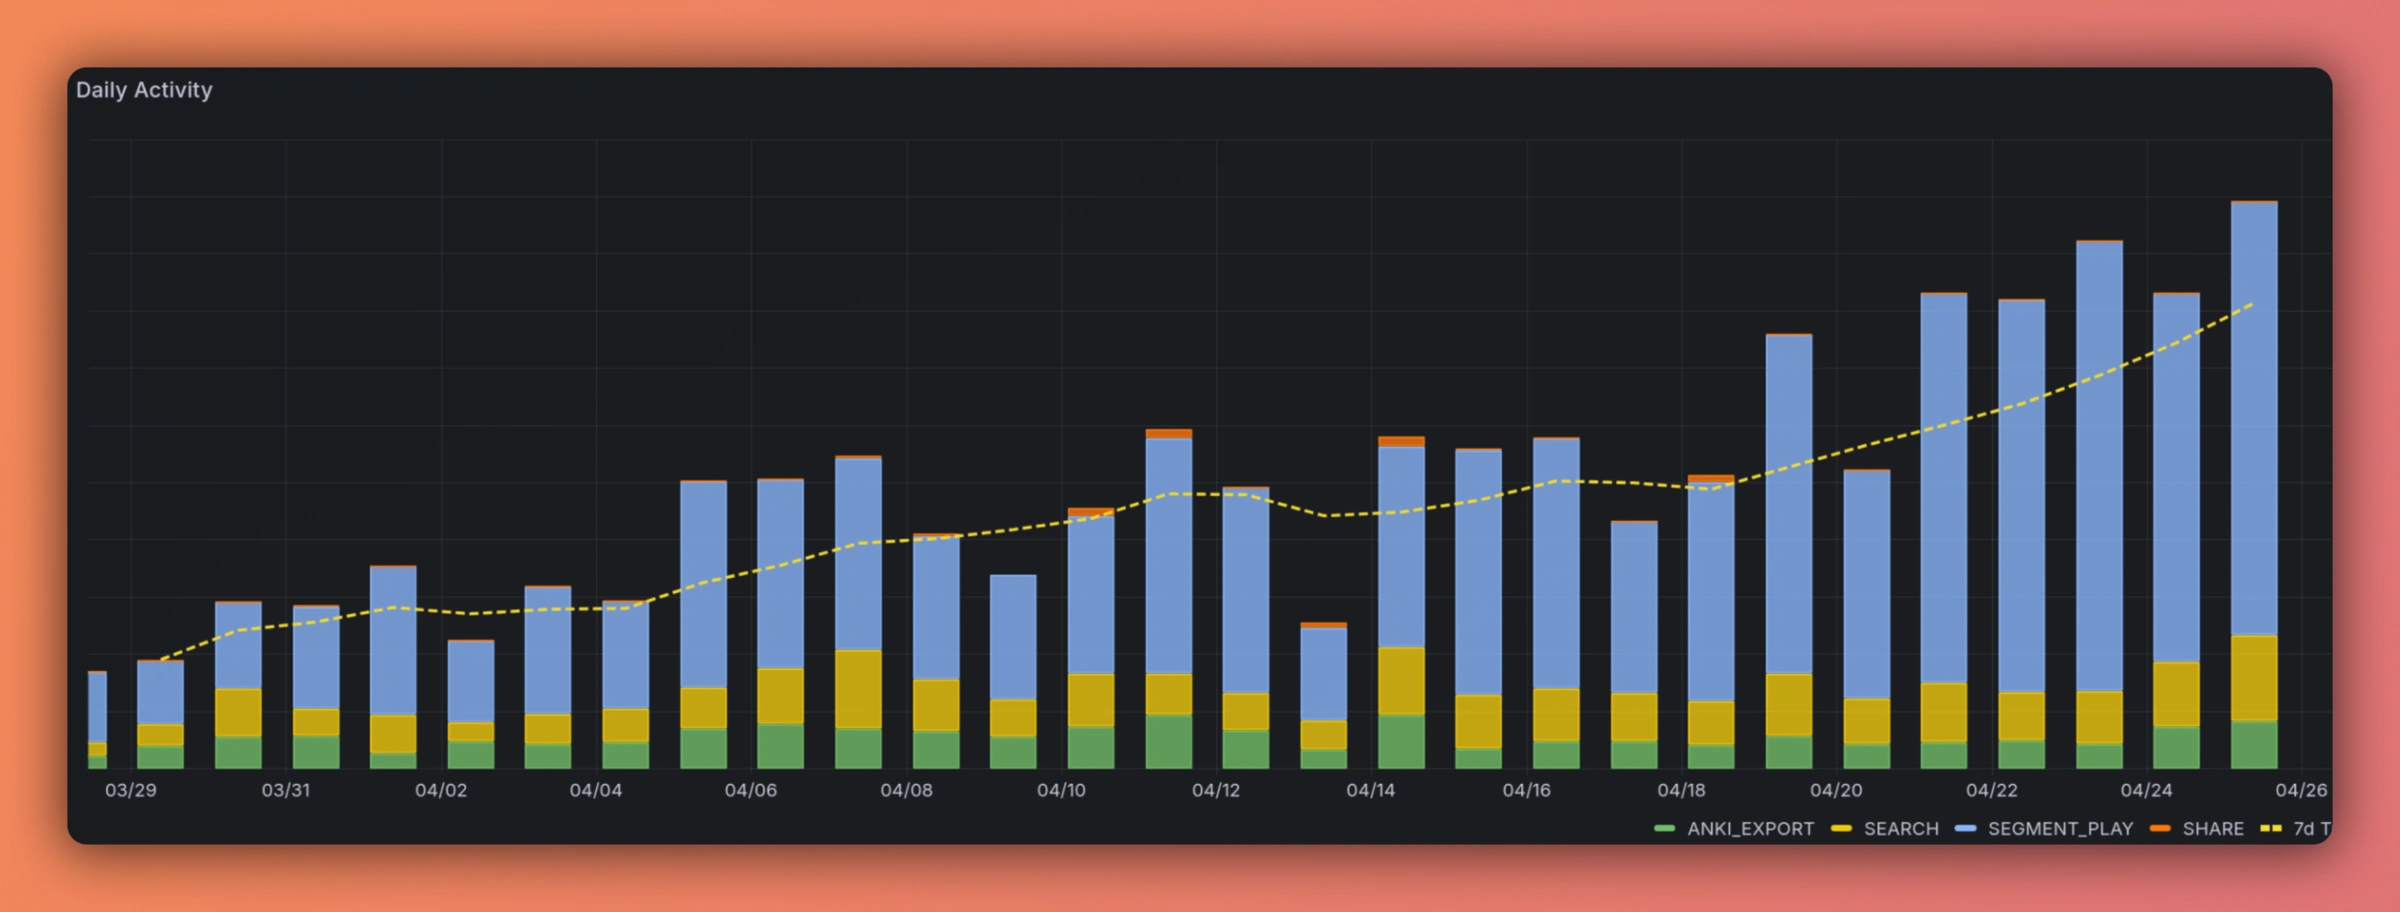
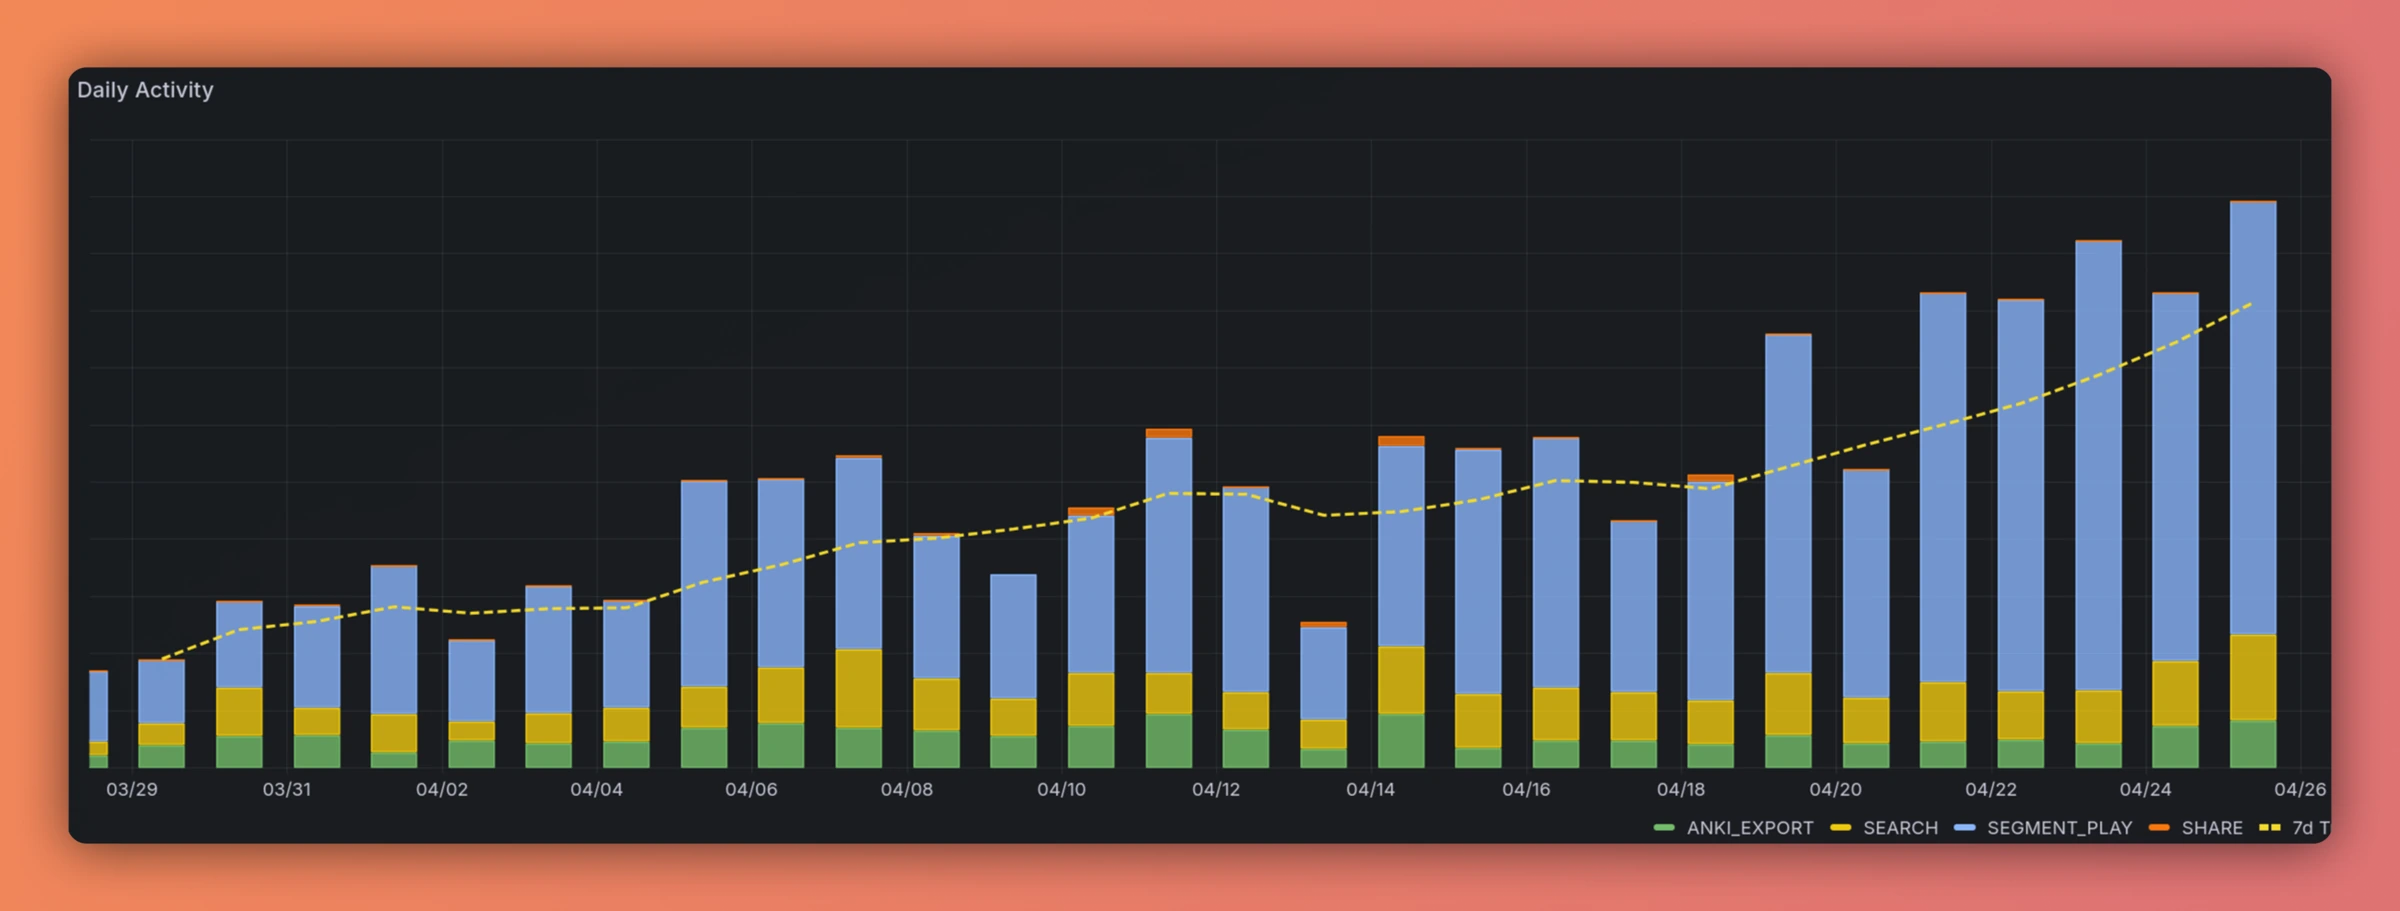
Fix title

diff --git a/frontend/app/pages/[...slug].vue b/frontend/app/pages/[...slug].vue
@@ -109,6 +109,7 @@ useHead(() => ({
               </svg>
               {{ new Date(contentDate).toLocaleDateString('en-US', { year: 'numeric', month: 'short', day: 'numeric' }) }}
             </time>
+            <img v-if="(data as any).image" :src="(data as any).image" :alt="title" class="blog-cover" loading="eager" />
           </template>
           <div v-html="data.html" />
 
@@ -226,6 +227,15 @@ useHead(() => ({
   font-size: 0.875rem;
   padding-left: 1rem;
   margin-bottom: 0;
+}
+
+.content-markdown .blog-cover {
+  display: block;
+  width: 100%;
+  max-width: min(1100px, 100%);
+  margin: 1.5rem auto 2rem;
+  border-radius: 0.5rem;
+  border: 1px solid rgba(255, 255, 255, 0.1);
 }
 
 @media (min-width: 768px) {

diff --git a/frontend/content/es/blog/nadeshiko-v2-1-0-dev-discord-update.md b/frontend/content/es/blog/nadeshiko-v2-1-0-dev-discord-update.md
@@ -1,15 +1,13 @@
 ---
-title: "Nadeshiko v2.1.0"
+title: "Nadeshiko v2.1.0 - La actualización para devs (+ ¡nueva integración del bot de Discord!)"
 description: "SDKs oficiales, bot de Discord público, y promesa de estabilidad en la API."
 date: 2026-04-20T00:00:00Z
-image: /images/blog/nadeshiko-dev-2-1-0.jpg
+image: /images/blog/v2-1-0-activity.webp
 ---
 
-# Nadeshiko v2.1.0 - La actualización para devs (+ ¡bot oficial de Discord!)
+# Nadeshiko v2.1.0 - La actualización para devs (+ ¡nueva integración del bot de Discord!)
 
 Ha pasado poco más de un mes desde el lanzamiento de v2.0.0 de Nadeshiko, y estamos increíblemente agradecidos por la recepción y el crecimiento que está teniendo el proyecto. Solo en el último mes la actividad diaria ha crecido 4x, incluyendo un montón de nuevos usuarios registrados.
-
-![Gráfico de actividad diaria mostrando un crecimiento de 4x en el último mes](/images/blog/v2-1-0-activity.webp)
 
 Junto con todos los pequeños bugs y mejoras de usabilidad que hemos lanzado durante el último mes, hemos estado trabajando duro en **dos** funcionalidades en concreto que queremos destacar en esta versión v2.1.0:
 
@@ -98,3 +96,5 @@ No escribimos posts en el blog por cada pequeño cambio, pero estamos constantem
 </a>
 
 Como siempre, si sientes que Nadeshiko te ha ayudado en tus estudios de japonés y quieres devolver algo, considera apoyar nuestro trabajo con una donación en [Patreon](https://www.patreon.com/c/BrigadaSOS).
+
+¡Nos vemos la próxima vez con más mejoras!

diff --git a/frontend/content/en/blog/nadeshiko-v2-1-0-dev-discord-update.md b/frontend/content/en/blog/nadeshiko-v2-1-0-dev-discord-update.md
@@ -1,13 +1,11 @@
 ---
-title: "Nadeshiko v2.1.0"
+title: "Nadeshiko v2.1.0 - The Dev update (+ new discord bot integration!)"
 description: "Official SDKs, a public Discord bot, and an API stability promise."
 date: 2026-04-20T00:00:00Z
-image: /images/blog/nadeshiko-dev-2-1-0.jpg
+image: /images/blog/v2-1-0-activity.webp
 ---
 
-# Nadeshiko v2.1.0 - The Dev Update (+ official Discord bot!)
-
-![Daily activity chart showing 4x growth over the last month](/images/blog/v2-1-0-activity.webp)
+# Nadeshiko v2.1.0 - The Dev update (+ new discord bot integration!)
 
 It's been a little over a month since the v2.0.0 release of Nadeshiko, and we're incredibly grateful for the reception and growth the site has been seeing. In just the last month daily activity has grown 4x, including plenty of new registered users!
 
